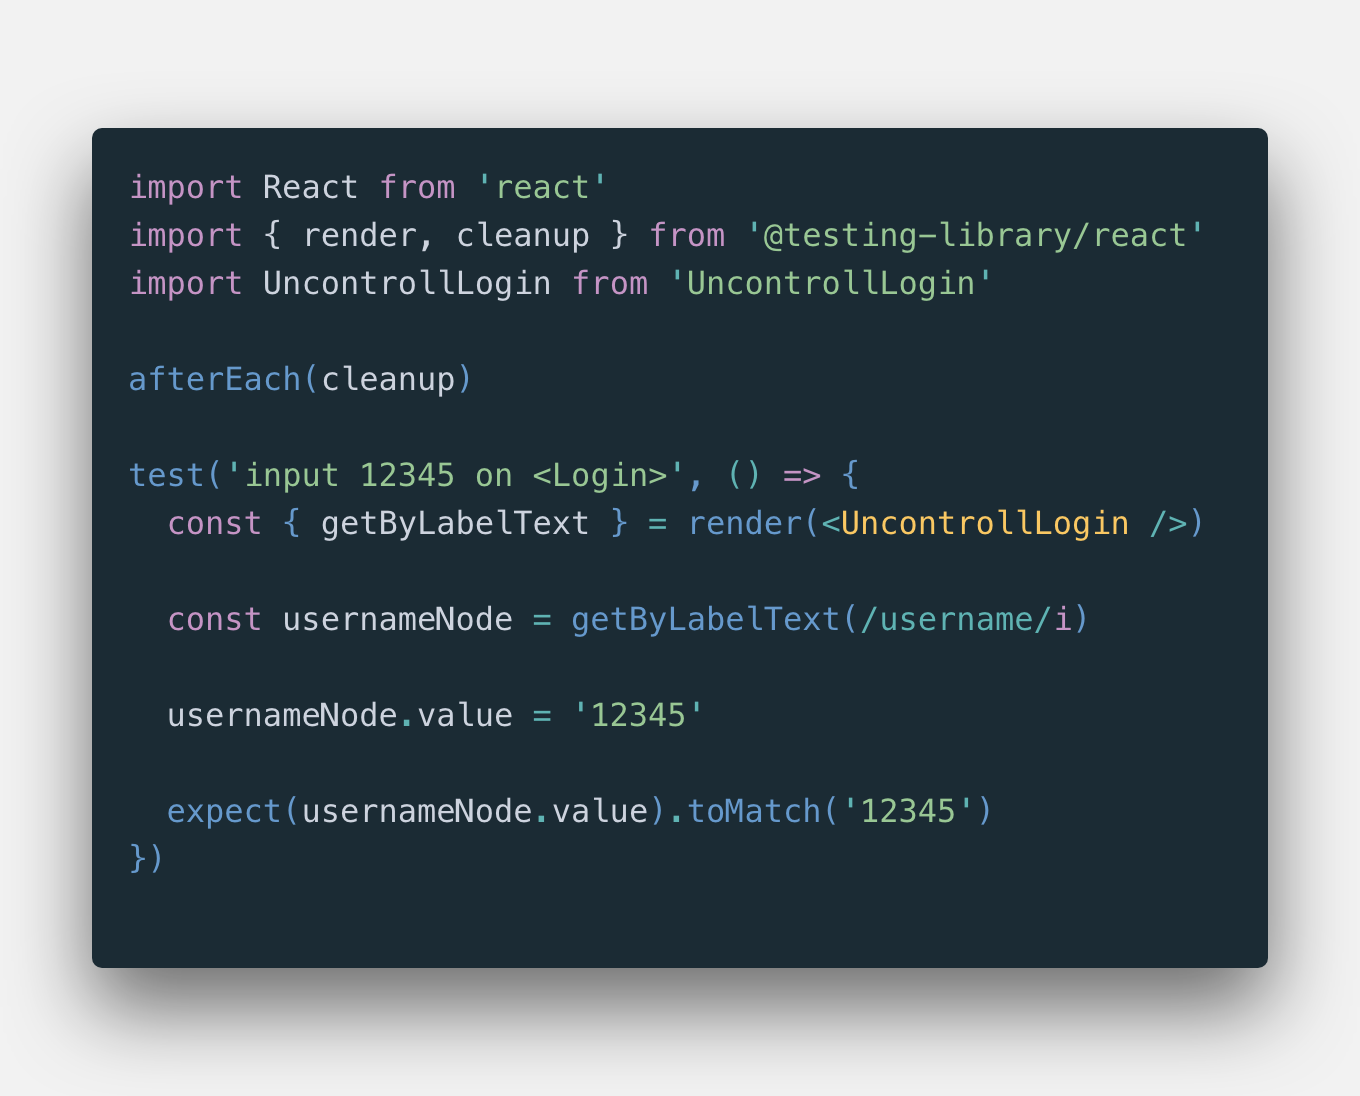
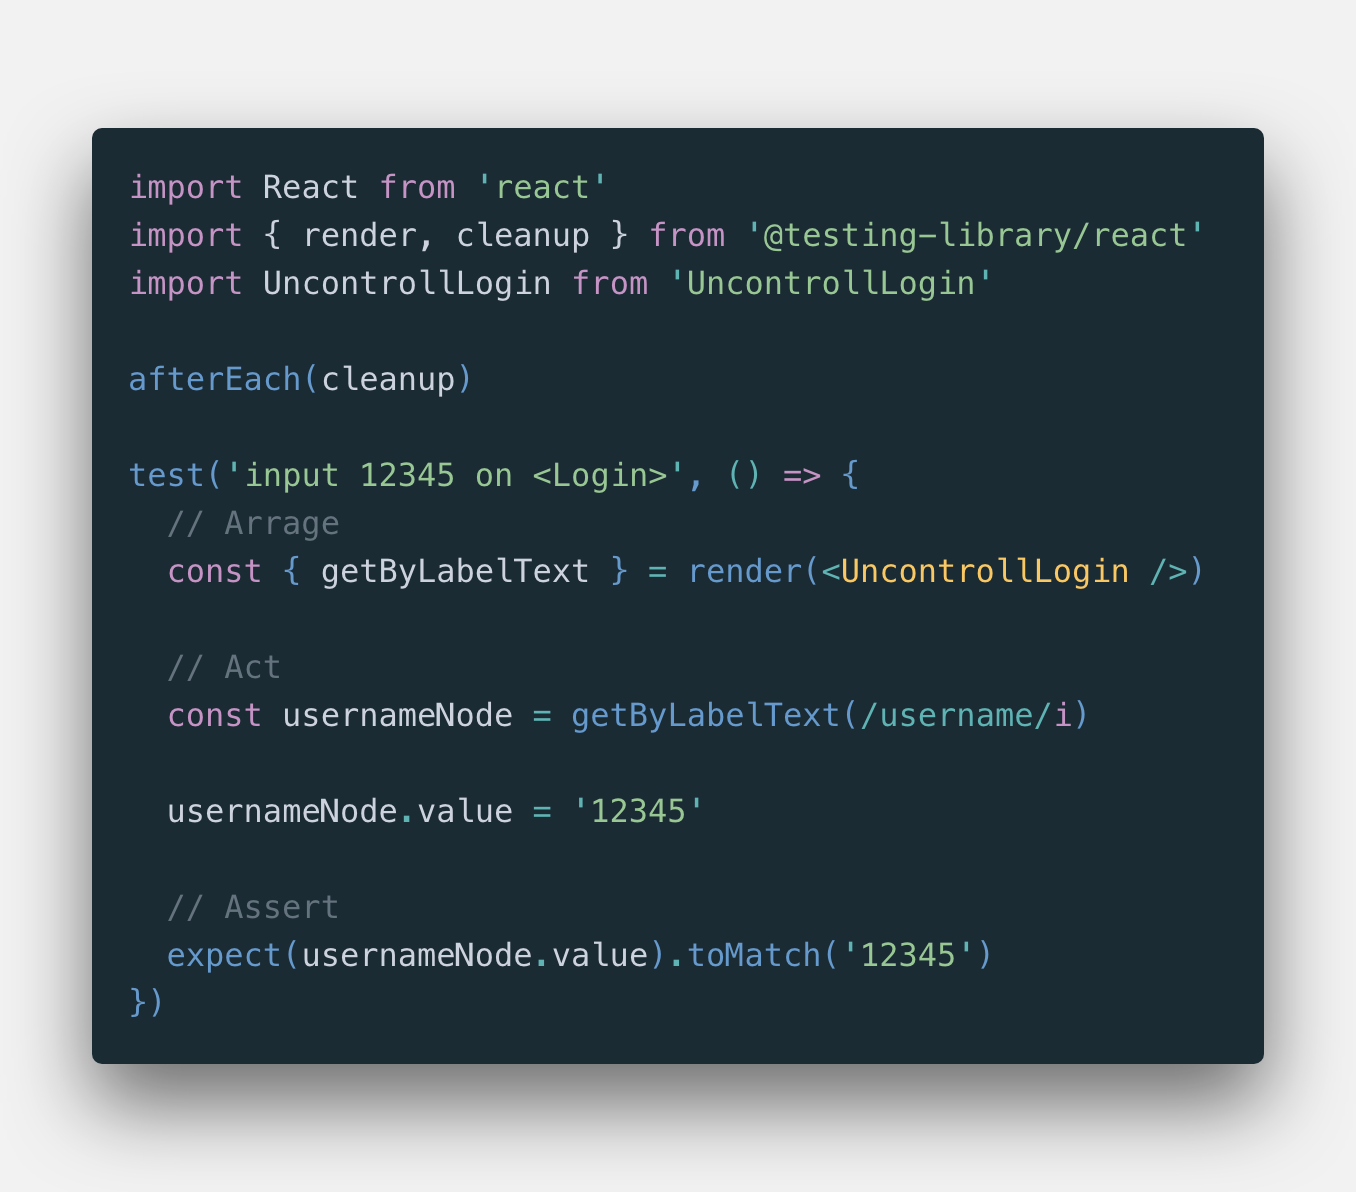
feat: 🎸 complete mdx slides for reat testing

diff --git a/src/__tests__/todoList.js b/src/__tests__/todoList.js
@@ -1,13 +1,15 @@
 import React from 'react'
 import axios from 'axios'
-import { render, fireEvent, waitForElement, wait } from '@testing-library/react'
+import { render, fireEvent, wait } from '@testing-library/react'
 import TodoList from 'TodoList'
 
 jest.mock('axios')
 
 test('should show the task', async () => {
-  const { getByTestId, getByText, container } = render(<TodoList />)
+  // Render the component
+  const { getByTestId } = render(<TodoList />)
 
+  // Mock response data
   const task = {
     userId: 1,
     id: 1,
@@ -19,12 +21,15 @@ test('should show the task', async () => {
   }
   axios.get.mockResolvedValue(response)
   
+  // Click the button
   const buttonNode = getByTestId('task-button')
   const leftClick = { button: 0 }
   fireEvent.click(buttonNode, leftClick)
 
+  // Wait for the response
   await wait(()=> getByTestId('task-name'))
   
+  // Assert
   expect(axios.get).toHaveBeenCalledTimes(1)
   expect(getByTestId('task-name').textContent).toEqual('X React Testing')
 })

diff --git a/src/TodoList.jsx b/src/TodoList.jsx
@@ -7,17 +7,8 @@ export default class TodoList extends React.Component {
     todoItem: {},
   }
 
-  // componentDidMount = async () => {
-  //   const todo = await axios.get('https://jsonplaceholder.typicode.com/todos/1')
-  //   console.log(todo)
-  //   this.setState((prevState, props) => ({
-  //     todoItem: todo.data,
-  //   }))
-  // }
-
   clickHandler = async () => {
     const todo = await axios.get('https://jsonplaceholder.typicode.com/todos/1')
-    console.log(todo)
     this.setState((prevState, props) => ({
       todoItem: todo.data,
     }))

diff --git a/src/index.js b/src/index.js
@@ -5,9 +5,9 @@ import App from './App'
 import TodoList from 'TodoList'
 import * as serviceWorker from './serviceWorker'
 
-ReactDOM.render(<TodoList />, document.getElementById('root'))
+// ReactDOM.render(<TodoList />, document.getElementById('root'))
 
-// ReactDOM.render(<App />, document.getElementById('root'));
+ReactDOM.render(<App />, document.getElementById('root'));
 
 // If you want your app to work offline and load faster, you can change
 // unregister() to register() below. Note this comes with some pitfalls.

diff --git a/src/__tests__/controllLogin.js b/src/__tests__/controllLogin.js
@@ -5,13 +5,16 @@ import ControllLogin from 'ControllLogin'
 afterEach(cleanup)
 
 test('input 12345 on <Login>', () => {
+  // Arrange
   const { getByLabelText } = render(<ControllLogin />)
 
+  // Act
   const controlledInputNode = getByLabelText(/username/i)
 
   fireEvent.change(controlledInputNode, {
     target: { value: 'You have been controlled!' },
   })
 
+  // Assert
   expect(controlledInputNode.value).toMatch('You have been controlled!')
 })

diff --git a/src/App.js b/src/App.js
@@ -11,14 +11,13 @@ function App() {
         <p>
           Edit <code>src/App.js</code> and save to reload.
         </p>
-        <UncontrollLogin />
         <a
           className="App-link"
           href="https://reactjs.org"
           target="_blank"
           rel="noopener noreferrer"
         >
-          Learn React
+          Learn Vue
         </a>
       </header>
     </div>

diff --git a/src/__tests__/uncontrollLogin.js b/src/__tests__/uncontrollLogin.js
@@ -5,11 +5,14 @@ import UncontrollLogin from 'UncontrollLogin'
 afterEach(cleanup)
 
 test('input 12345 on <Login>', () => {
+  // Arrage
   const { getByLabelText } = render(<UncontrollLogin />)
 
+  // Act
   const usernameNode = getByLabelText(/username/i)
 
   usernameNode.value = '12345'
 
+  // Assert
   expect(usernameNode.value).toMatch('12345')
 })

diff --git a/src/__tests__/image-snapshot-testing.js b/src/__tests__/image-snapshot-testing.js
@@ -1,7 +1,4 @@
-import React from 'react'
-import { render, cleanup } from '@testing-library/react'
 import {toMatchImageSnapshot} from 'jest-image-snapshot'
-import NumberDisplay from 'NumberDisplay'
 import puppeteer from 'puppeteer'
 
 expect.extend({ toMatchImageSnapshot });

diff --git a/src/ControllLogin.jsx b/src/ControllLogin.jsx
@@ -1,5 +1,5 @@
 import React from 'react'
-
+import './UncontrollLogin.css'
 export default class ControllInput extends React.Component {
   state = {
     value: '',

diff --git a/src/TodoList.css b/src/TodoList.css
@@ -15,6 +15,7 @@
   border-radius: 5px;
   transition-property: border, color;
   transition-duration: 1s, 1s;
+  outline: none;
 }
 
 
